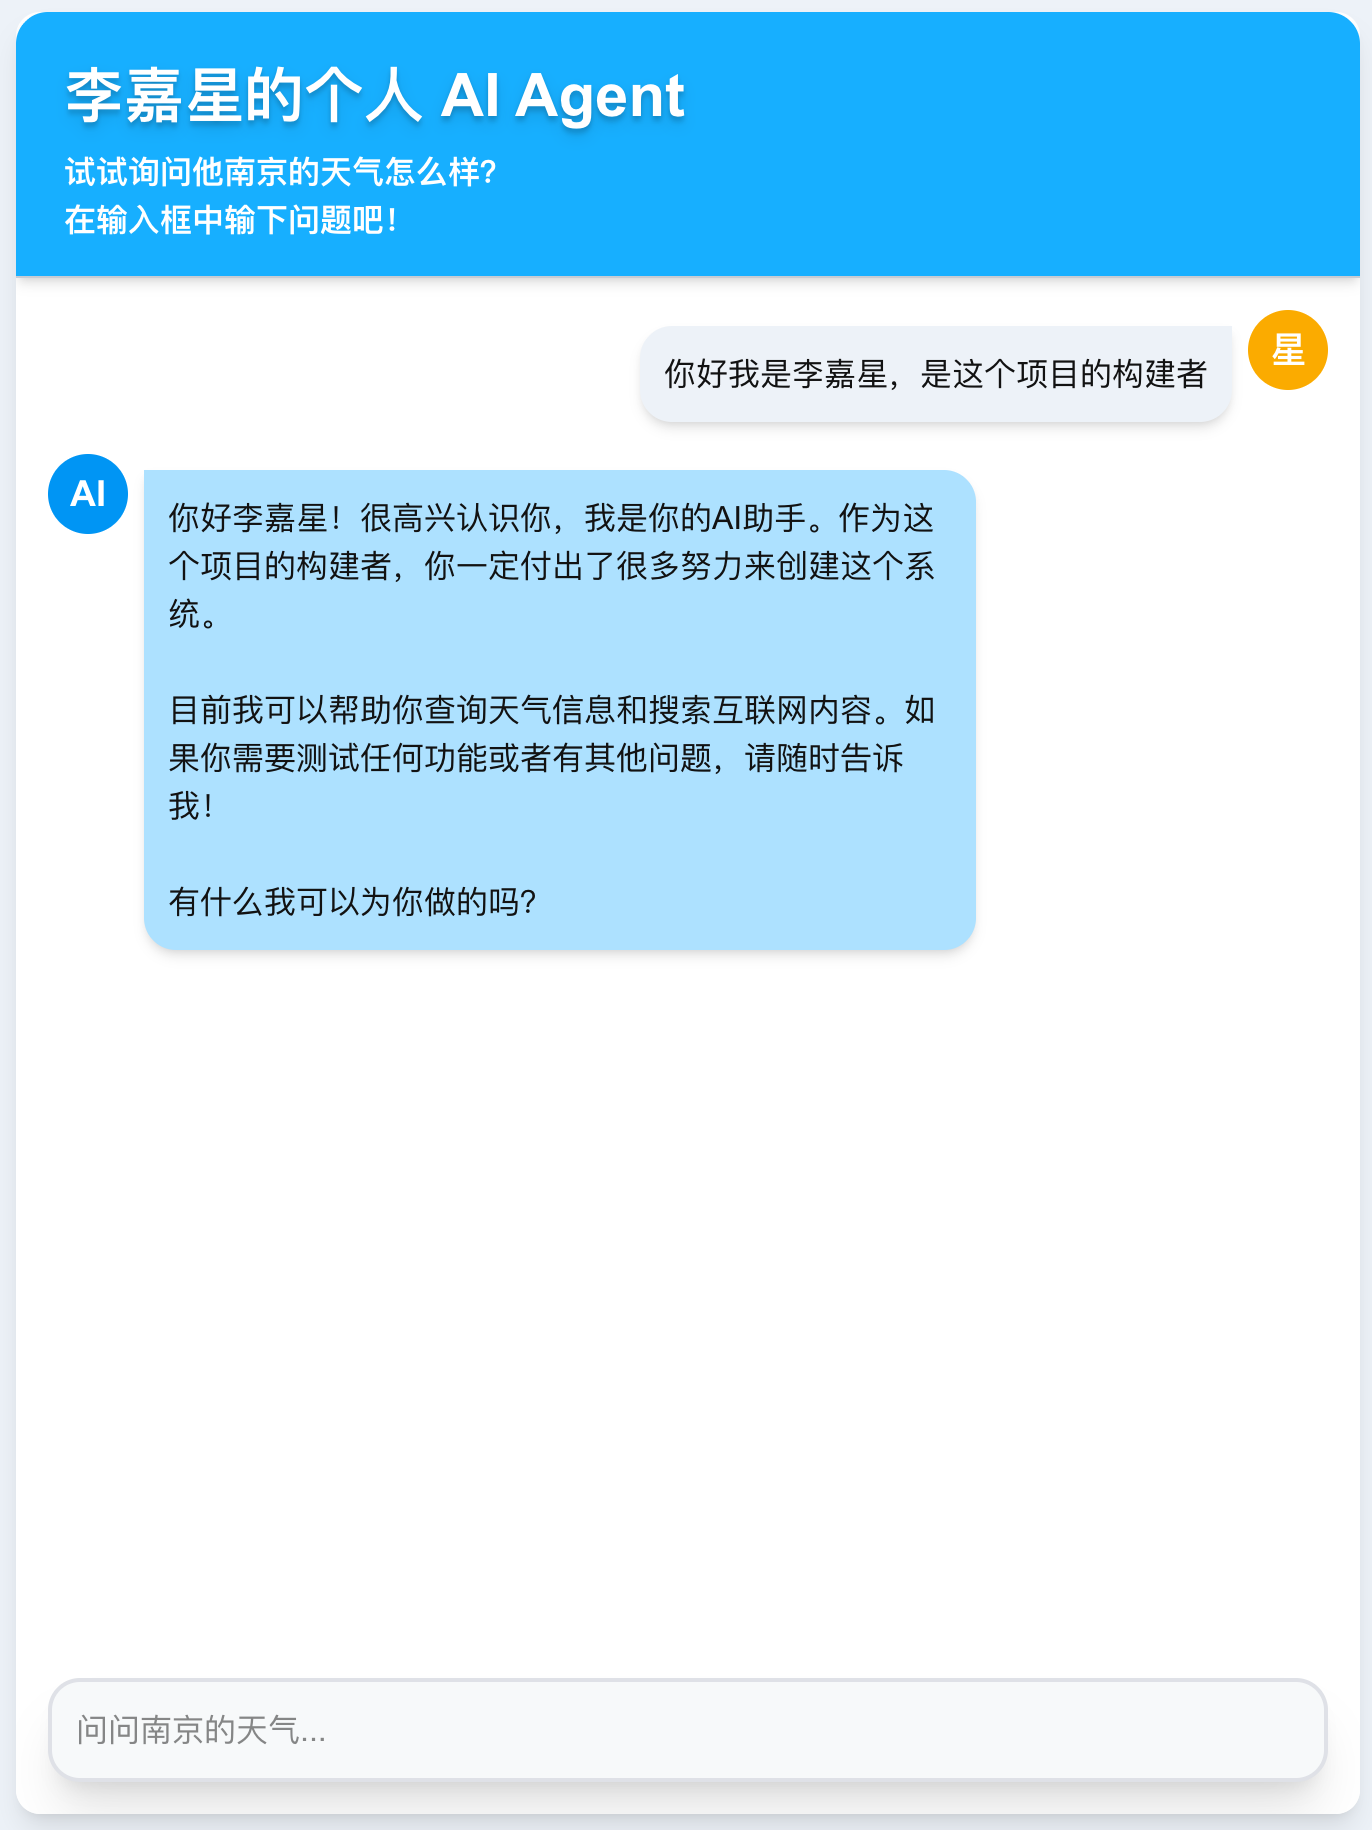
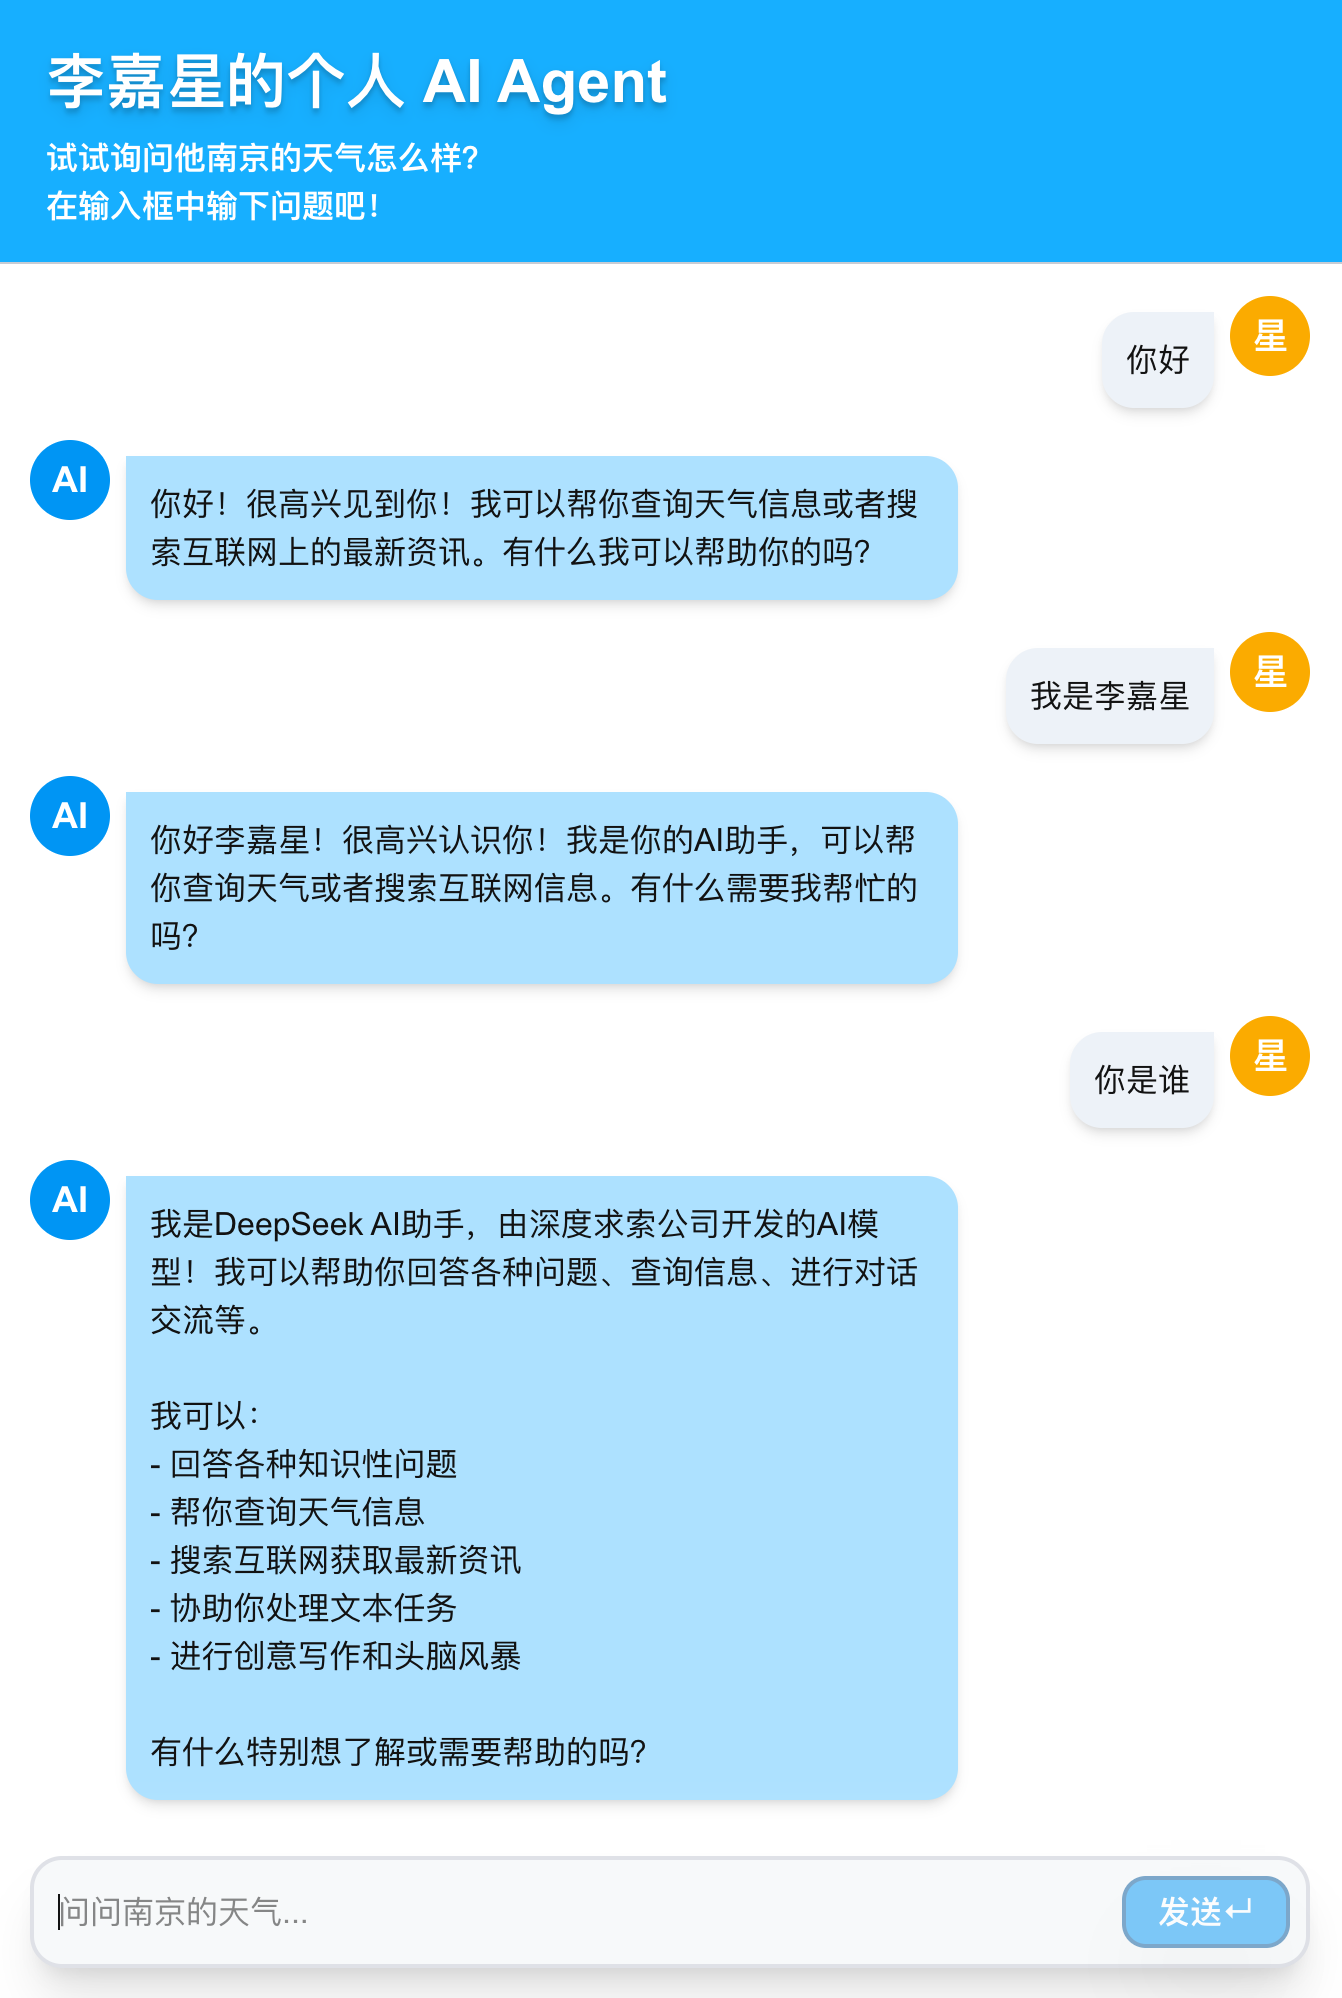
添加滚动容器引用，优化消息显示区域的自动滚动功能

diff --git a/app/page.tsx b/app/page.tsx
@@ -1,12 +1,19 @@
 'use client';
 
-import { FormEvent, useState } from 'react';
+import { FormEvent, useEffect, useRef, useState } from 'react';
 import { useChat } from '@ai-sdk/react';
 import { getToolName, isToolUIPart } from 'ai';
 
 export default function Home() {
     const { messages, sendMessage } = useChat();
     const [input, setInput] = useState('');
+    const scrollContainerRef = useRef<HTMLDivElement>(null);
+
+    useEffect(() => {
+        const container = scrollContainerRef.current;
+        if (!container) return;
+        container.scrollTop = container.scrollHeight;
+    }, [messages]);
 
     const handleSubmit = async (event: FormEvent<HTMLFormElement>) => {
         event.preventDefault();
@@ -26,7 +33,7 @@ export default function Home() {
                     <div className="text-white font-semibold">在输入框中输下问题吧！</div>
                 </div>
 
-                <div className='w-full flex-1 overflow-y-auto scrollbar-hide items-start px-4'>
+                <div ref={scrollContainerRef} className='w-full flex-1 overflow-y-auto scrollbar-hide items-start px-4'>
                     {messages.length === 0 ? (
                         <div className='w-full mt-4 text-gray-400 flex items-center justify-center'>
                             向我提问吧！😊
